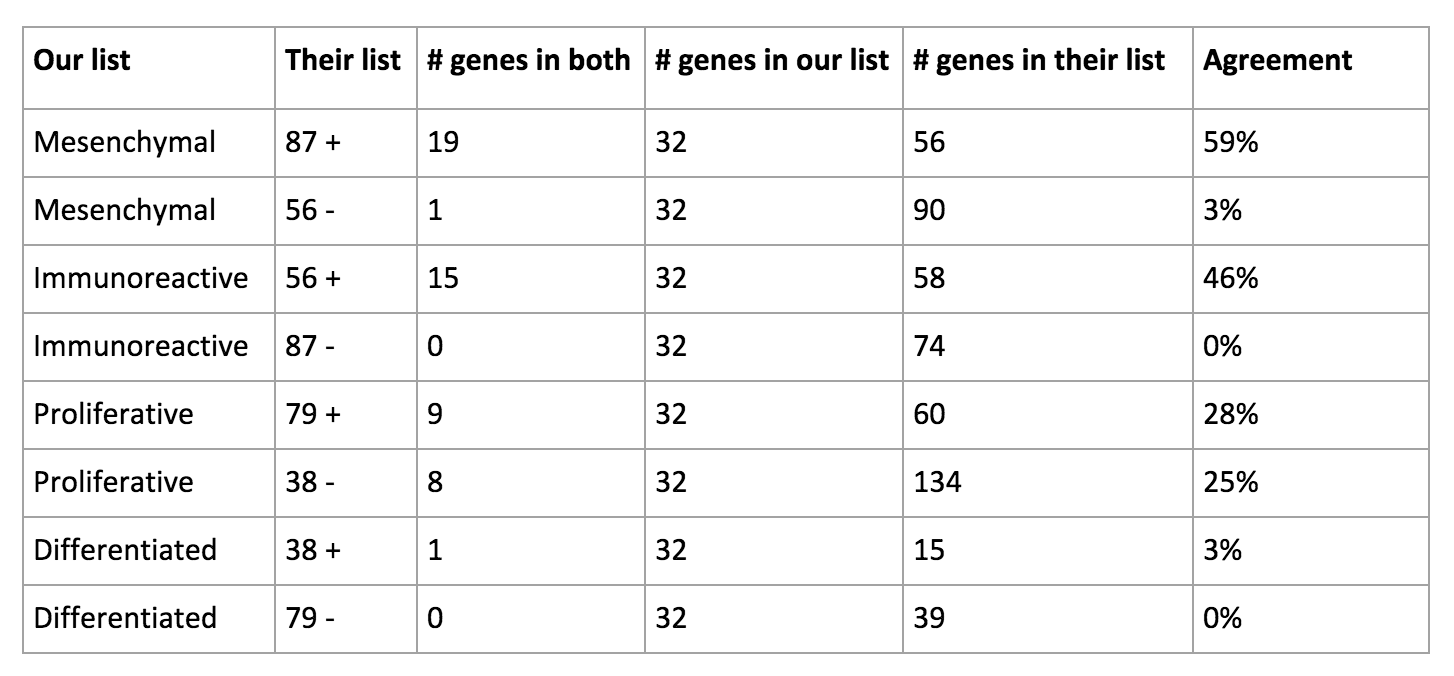
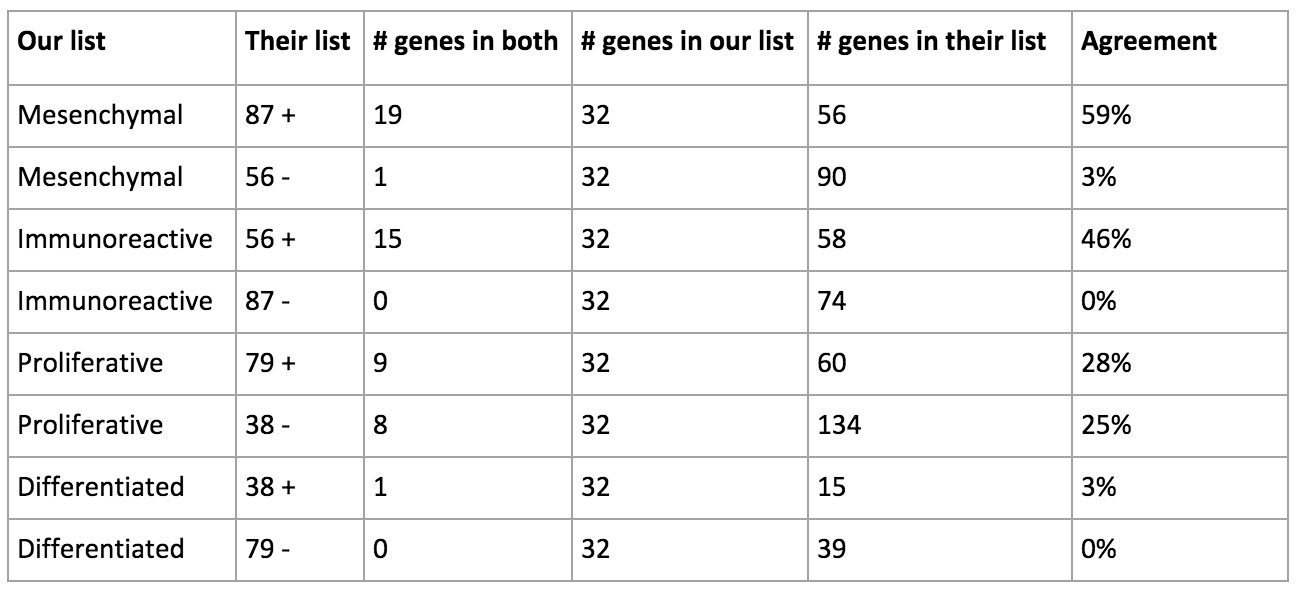
Use double resolution table image

Changed region(s): [[0.0, 0.0, 1.0, 1.0]]

diff --git a/README.md b/README.md
@@ -37,7 +37,7 @@ Below are visualizations (Figures 1-2) of how samples distribute along the two a
 
 We then compare the overlap between our resulting gene list and that of [1]. The agreement is notably poor, including multiple cases with a null intersection.
 
-![table]
+<img src="images/table.png" width="650px"/>
 
 We also ran the gene list through pathway analysis and the results show interesting differences to those of [1]. However we do not have sufficient biological knowledge to judge if these differences are sensible. These results are in the folder `result/pathway` of our GitHub repository.
 
